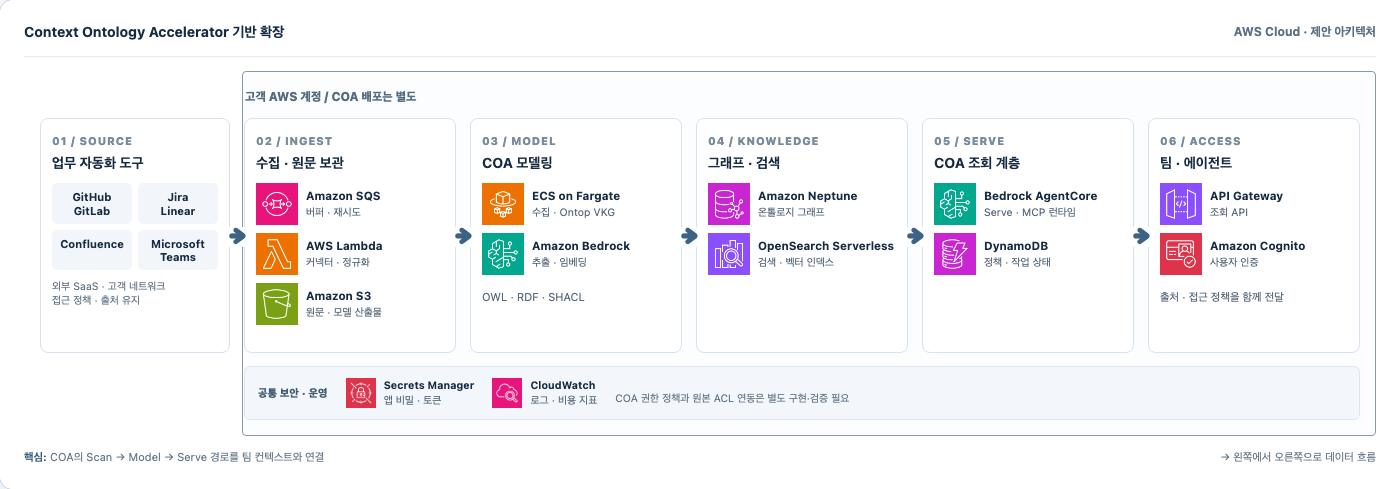
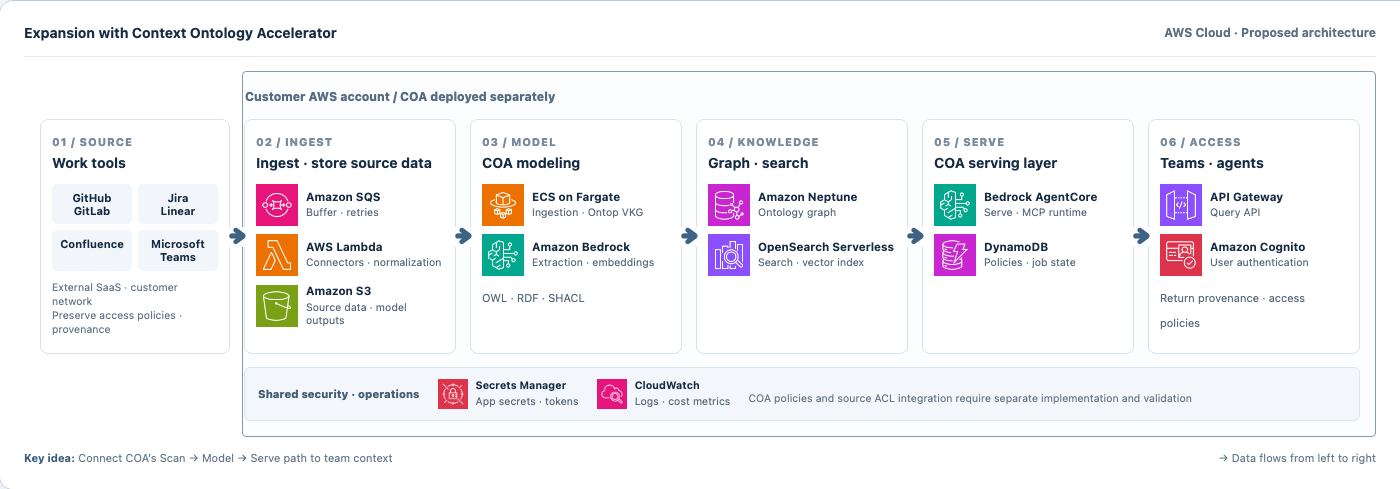
Translate the architecture page into English (#63)

diff --git a/docs/index.html b/docs/index.html
@@ -1,43 +1,43 @@
 <!doctype html>
-<html lang="ko">
+<html lang="en">
 <head>
   <meta charset="utf-8">
   <meta name="viewport" content="width=device-width, initial-scale=1">
-  <meta name="description" content="팀 업무 맥락 공유를 위한 AWS 아키텍처와 현재 구현 상태">
-  <title>Team Context · AWS 아키텍처</title>
+  <meta name="description" content="AWS architecture options and implementation status for sharing team context">
+  <title>Team Context · AWS Architecture</title>
   <style>
     :root{--ink:#172c43;--sub:#596b7d;--line:#d8e2ed;--blue:#1a5f9d;--navy:#162f49;--orange:#ef831a;--bg:#f5f8fb;--green:#158465}
-    *{box-sizing:border-box}body{margin:0;background:var(--bg);font:15px/1.65 -apple-system,BlinkMacSystemFont,'Apple SD Gothic Neo','Malgun Gothic',sans-serif;color:var(--ink)}a{color:#125b96}main{max-width:1500px;margin:auto;padding:0 28px 72px}.top{background:#142b42;color:white}.top-inner{max-width:1500px;margin:auto;padding:19px 28px;display:flex;align-items:center;justify-content:space-between;gap:18px}.brand{font-weight:800;letter-spacing:.02em}.top a{color:#dbeeff;text-decoration:none}.hero{padding:48px 0 30px;display:flex;align-items:end;justify-content:space-between;gap:25px;flex-wrap:wrap}.eyebrow{font-weight:800;font-size:12px;letter-spacing:.12em;color:var(--blue)}h1{font-size:clamp(30px,4vw,48px);line-height:1.15;letter-spacing:-.04em;margin:8px 0 12px}.lead{max-width:760px;margin:0;color:var(--sub);font-size:17px}.status{padding:12px 16px;border:1px solid #f0d199;border-radius:10px;background:#fff9e9;color:#795008;font-size:13px;max-width:380px}.nav{display:flex;gap:9px;flex-wrap:wrap;margin-bottom:26px}.nav a{padding:8px 14px;background:white;border:1px solid var(--line);border-radius:8px;text-decoration:none;font-weight:700;font-size:13px}.section{margin-top:34px}.heading{display:flex;align-items:flex-end;justify-content:space-between;gap:18px;flex-wrap:wrap;margin-bottom:13px}.heading h2{font-size:25px;margin:0;letter-spacing:-.03em}.heading p{margin:4px 0 0;color:var(--sub)}.pill{border-radius:99px;padding:5px 11px;background:#e4effc;color:#185a99;font-weight:800;font-size:12px}.pill.purple{background:#f0eafa;color:#6c3da5}.diagram-scroll{overflow-x:auto;border-radius:14px;border:1px solid #b9c9d9;background:#fff;box-shadow:0 8px 26px #243d5610}.diagram{width:1400px;min-width:1400px;padding:20px 24px 22px;background:white}.diagram-top{display:flex;justify-content:space-between;align-items:center;border-bottom:1px solid #e5ebf2;padding-bottom:12px}.diagram-top strong{font-size:14px}.aws-label{font-size:12px;color:#5b7084;font-weight:700}.cloud{margin-top:14px;position:relative;padding:16px;background:white}.cloud:before{content:"";position:absolute;left:218px;right:0;top:0;bottom:0;border:1px solid #8599ad;border-radius:4px;background:#fcfdff}.cloud>*{position:relative}.cloud-label{font-size:12px;font-weight:800;color:#556d83;margin:0 0 12px 205px}.flow{display:grid;grid-template-columns:190px repeat(5,1fr);gap:14px;align-items:stretch}.stage{position:relative;min-height:235px;border:1px solid #d7e2ec;border-radius:8px;background:white;padding:13px 11px}.stage:not(:last-child):after{content:'➜';position:absolute;z-index:2;right:-17px;top:46%;font-size:20px;color:#3d6384;background:#fcfdff;line-height:1}.stage-num{color:#788b9d;font-weight:800;font-size:11px;letter-spacing:.08em}.stage h3{font-size:14px;line-height:1.35;margin:3px 0 11px}.stage small{font-size:11px;color:var(--sub);line-height:1.4}.source-grid{display:grid;grid-template-columns:1fr 1fr;gap:6px}.source{padding:7px 5px;background:#f2f6fa;border-radius:5px;font-size:11px;font-weight:700;text-align:center;line-height:1.2}.service{display:flex;align-items:center;gap:8px;margin:8px 0}.service img{width:42px;height:42px;object-fit:contain;flex:none}.service strong{display:block;font-size:11.5px;line-height:1.28}.service span{display:block;color:var(--sub);font-size:10.5px;line-height:1.32;margin-top:2px}.note{color:#667789;font-size:10.5px;line-height:1.35;margin:9px 0 0}.rail{margin:13px 0 0 204px;padding:11px 13px;background:#f3f7fb;border:1px solid #dce6f0;border-radius:6px;display:flex;align-items:center;gap:18px;flex-wrap:wrap}.rail-title{font-size:11px;font-weight:800;color:#455d73}.rail .service{margin:0}.rail .service img{width:30px;height:30px}.rail .service strong{font-size:10.5px}.caption{display:flex;justify-content:space-between;gap:14px;margin-top:12px;color:#687b8e;font-size:11px}.caption b{color:#3a5d7b}.cards{display:grid;grid-template-columns:repeat(3,minmax(0,1fr));gap:14px}.card{background:white;border:1px solid var(--line);border-radius:12px;padding:20px}.card h3{font-size:16px;margin:0 0 8px}.card p,.card li{color:#4c6074;font-size:14px}.card p{margin:0}.card ul{padding-left:18px;margin:0}.table-wrap{overflow-x:auto;border:1px solid var(--line);border-radius:12px;background:#fff}table{border-collapse:collapse;width:100%;min-width:680px;font-size:14px}th,td{padding:13px 16px;border-bottom:1px solid #e6edf4;text-align:left;vertical-align:top}th{background:#f6f9fc;color:#426077}tr:last-child td{border:0}.ok{color:#087a59;font-weight:700;white-space:nowrap}.partial{color:#9a6700;font-weight:700;white-space:nowrap}.todo{color:#6f7e8a;font-weight:700;white-space:nowrap}.mobile-hint{display:none;color:#60778c;font-size:12px}.notice{padding:16px 18px;background:#f0f6fc;border-left:4px solid #4183bc;border-radius:5px;color:#38516a;font-size:14px}.sources{font-size:13px;color:var(--sub)}footer{margin-top:52px;color:#778b9b;font-size:12px;border-top:1px solid var(--line);padding-top:18px}@media(max-width:780px){main{padding:0 16px 50px}.top-inner{padding:16px}.top a{white-space:nowrap;font-size:13px}.brand span{display:none}.mobile-hint{display:block}.hero{padding-top:30px}.cards{grid-template-columns:1fr}.diagram-scroll:after{content:'← 좌우로 스크롤하여 흐름 확인 →';display:block;text-align:center;color:#60778c;padding:6px;font-size:11px}.heading h2{font-size:21px}}
+    *{box-sizing:border-box}body{margin:0;background:var(--bg);font:15px/1.65 -apple-system,BlinkMacSystemFont,'Apple SD Gothic Neo','Malgun Gothic',sans-serif;color:var(--ink)}a{color:#125b96}main{max-width:1500px;margin:auto;padding:0 28px 72px}.top{background:#142b42;color:white}.top-inner{max-width:1500px;margin:auto;padding:19px 28px;display:flex;align-items:center;justify-content:space-between;gap:18px}.brand{font-weight:800;letter-spacing:.02em}.top a{color:#dbeeff;text-decoration:none}.hero{padding:48px 0 30px;display:flex;align-items:end;justify-content:space-between;gap:25px;flex-wrap:wrap}.eyebrow{font-weight:800;font-size:12px;letter-spacing:.12em;color:var(--blue)}h1{font-size:clamp(30px,4vw,48px);line-height:1.15;letter-spacing:-.04em;margin:8px 0 12px}.lead{max-width:760px;margin:0;color:var(--sub);font-size:17px}.status{padding:12px 16px;border:1px solid #f0d199;border-radius:10px;background:#fff9e9;color:#795008;font-size:13px;max-width:380px}.nav{display:flex;gap:9px;flex-wrap:wrap;margin-bottom:26px}.nav a{padding:8px 14px;background:white;border:1px solid var(--line);border-radius:8px;text-decoration:none;font-weight:700;font-size:13px}.section{margin-top:34px}.heading{display:flex;align-items:flex-end;justify-content:space-between;gap:18px;flex-wrap:wrap;margin-bottom:13px}.heading h2{font-size:25px;margin:0;letter-spacing:-.03em}.heading p{margin:4px 0 0;color:var(--sub)}.pill{border-radius:99px;padding:5px 11px;background:#e4effc;color:#185a99;font-weight:800;font-size:12px}.pill.purple{background:#f0eafa;color:#6c3da5}.diagram-scroll{overflow-x:auto;border-radius:14px;border:1px solid #b9c9d9;background:#fff;box-shadow:0 8px 26px #243d5610}.diagram{width:1400px;min-width:1400px;padding:20px 24px 22px;background:white}.diagram-top{display:flex;justify-content:space-between;align-items:center;border-bottom:1px solid #e5ebf2;padding-bottom:12px}.diagram-top strong{font-size:14px}.aws-label{font-size:12px;color:#5b7084;font-weight:700}.cloud{margin-top:14px;position:relative;padding:16px;background:white}.cloud:before{content:"";position:absolute;left:218px;right:0;top:0;bottom:0;border:1px solid #8599ad;border-radius:4px;background:#fcfdff}.cloud>*{position:relative}.cloud-label{font-size:12px;font-weight:800;color:#556d83;margin:0 0 12px 205px}.flow{display:grid;grid-template-columns:190px repeat(5,1fr);gap:14px;align-items:stretch}.stage{position:relative;min-height:235px;border:1px solid #d7e2ec;border-radius:8px;background:white;padding:13px 11px}.stage:not(:last-child):after{content:'➜';position:absolute;z-index:2;right:-17px;top:46%;font-size:20px;color:#3d6384;background:#fcfdff;line-height:1}.stage-num{color:#788b9d;font-weight:800;font-size:11px;letter-spacing:.08em}.stage h3{font-size:14px;line-height:1.35;margin:3px 0 11px}.stage small{font-size:11px;color:var(--sub);line-height:1.4}.source-grid{display:grid;grid-template-columns:1fr 1fr;gap:6px}.source{padding:7px 5px;background:#f2f6fa;border-radius:5px;font-size:11px;font-weight:700;text-align:center;line-height:1.2}.service{display:flex;align-items:center;gap:8px;margin:8px 0}.service img{width:42px;height:42px;object-fit:contain;flex:none}.service strong{display:block;font-size:11.5px;line-height:1.28}.service span{display:block;color:var(--sub);font-size:10.5px;line-height:1.32;margin-top:2px}.note{color:#667789;font-size:10.5px;line-height:1.35;margin:9px 0 0}.rail{margin:13px 0 0 204px;padding:11px 13px;background:#f3f7fb;border:1px solid #dce6f0;border-radius:6px;display:flex;align-items:center;gap:18px;flex-wrap:wrap}.rail-title{font-size:11px;font-weight:800;color:#455d73}.rail .service{margin:0}.rail .service img{width:30px;height:30px}.rail .service strong{font-size:10.5px}.caption{display:flex;justify-content:space-between;gap:14px;margin-top:12px;color:#687b8e;font-size:11px}.caption b{color:#3a5d7b}.cards{display:grid;grid-template-columns:repeat(3,minmax(0,1fr));gap:14px}.card{background:white;border:1px solid var(--line);border-radius:12px;padding:20px}.card h3{font-size:16px;margin:0 0 8px}.card p,.card li{color:#4c6074;font-size:14px}.card p{margin:0}.card ul{padding-left:18px;margin:0}.table-wrap{overflow-x:auto;border:1px solid var(--line);border-radius:12px;background:#fff}table{border-collapse:collapse;width:100%;min-width:680px;font-size:14px}th,td{padding:13px 16px;border-bottom:1px solid #e6edf4;text-align:left;vertical-align:top}th{background:#f6f9fc;color:#426077}tr:last-child td{border:0}.ok{color:#087a59;font-weight:700;white-space:nowrap}.partial{color:#9a6700;font-weight:700;white-space:nowrap}.todo{color:#6f7e8a;font-weight:700;white-space:nowrap}.mobile-hint{display:none;color:#60778c;font-size:12px}.notice{padding:16px 18px;background:#f0f6fc;border-left:4px solid #4183bc;border-radius:5px;color:#38516a;font-size:14px}.sources{font-size:13px;color:var(--sub)}footer{margin-top:52px;color:#778b9b;font-size:12px;border-top:1px solid var(--line);padding-top:18px}@media(max-width:780px){main{padding:0 16px 50px}.top-inner{padding:16px}.top a{white-space:nowrap;font-size:13px}.brand span{display:none}.mobile-hint{display:block}.hero{padding-top:30px}.cards{grid-template-columns:1fr}.diagram-scroll:after{content:'← Scroll horizontally to follow the flow →';display:block;text-align:center;color:#60778c;padding:6px;font-size:11px}.heading h2{font-size:21px}}
   </style>
 </head>
 <body>
-<header class="top"><div class="top-inner"><div class="brand">◈ &nbsp; TEAM CONTEXT <span style="font-weight:400;color:#9fb4c7">/ 아키텍처 노트</span></div><a href="https://github.com/YoungJinJung/team-context">GitHub 저장소 ↗</a></div></header>
+<header class="top"><div class="top-inner"><div class="brand">◈ &nbsp; TEAM CONTEXT <span style="font-weight:400;color:#9fb4c7">/ Architecture notes</span></div><a href="https://github.com/YoungJinJung/team-context">GitHub repository ↗</a></div></header>
 <main>
-  <section class="hero"><div><div class="eyebrow">TEAM KNOWLEDGE · AWS ARCHITECTURE</div><h1>팀의 업무 맥락을<br>하나의 언어로 연결합니다.</h1><p class="lead">문서, 소스코드, 티켓과 대화의 관계를 연결하는 오픈소스 프로젝트. 작은 MVP로 시작하고 필요할 때 온톨로지와 검색을 확장합니다.</p></div><div class="status"><strong>현재 구현: 로컬 프로토타입</strong><br>아래 AWS 다이어그램은 목표 설계입니다. 실제 AWS 배포, 운영용 권한 격리와 COA 연동은 아직 구현되지 않았습니다.</div></section>
-  <nav class="nav" aria-label="문서 목차"><a href="#mvp">01 저비용 MVP</a><a href="#expanded">02 COA 확장형</a><a href="#status">구현 현황</a><a href="#cost">비용 최적화</a><a href="https://github.com/YoungJinJung/team-context/blob/main/docs/architecture.md">자세한 설계 문서 ↗</a></nav>
-  <section class="section" id="mvp"><div class="heading"><div><h2>01. 저비용 MVP</h2><p>승인 워크플로 없이 수집·저장·조회부터 시작합니다.</p></div><span class="pill">제안 · AWS 미배포</span></div>
-    <div class="diagram-scroll" tabindex="0" role="region" aria-label="저비용 MVP 아키텍처, 가로로 스크롤 가능"><div class="diagram" id="diagram-mvp"><div class="diagram-top"><strong>업무 도구에서 사용자 조회까지</strong><span class="aws-label">AWS Cloud · 제안 아키텍처</span></div><div class="cloud"><div class="cloud-label">고객 AWS 계정 / 운영 환경</div><div class="flow">
-      <div class="stage"><div class="stage-num">01 / SOURCE</div><h3>업무 자동화 도구</h3><div class="source-grid"><div class="source">GitHub<br>GitLab</div><div class="source">Jira<br>Linear</div><div class="source">Confluence</div><div class="source">Microsoft<br>Teams</div></div><p class="note">외부 SaaS · 고객 네트워크<br>연결 범위는 권한별로 제한</p></div>
-      <div class="stage"><div class="stage-num">02 / TRIGGER</div><h3>변경 감지 · 접수</h3><div class="service"><img src="assets/eventbridge.png" alt=""><div><strong>EventBridge</strong><span>주기 수집</span></div></div><div class="service"><img src="assets/sqs.png" alt=""><div><strong>Amazon SQS</strong><span>대기열 · 재시도</span></div></div><small>웹훅은 API Gateway로 수신</small></div>
-      <div class="stage"><div class="stage-num">03 / CONNECT</div><h3>커넥터 · 정규화</h3><div class="service"><img src="assets/lambda.png" alt=""><div><strong>AWS Lambda</strong><span>권한 기반 수집<br>출처 · 관계 변환</span></div></div><p class="note">GitHub App / OAuth<br>개인 장기 토큰 지양</p></div>
-      <div class="stage"><div class="stage-num">04 / STORE</div><h3>기록 · 상태</h3><div class="service"><img src="assets/s3.png" alt=""><div><strong>Amazon S3</strong><span>원문 · 스냅샷<br>모델 파일</span></div></div><div class="service"><img src="assets/dynamodb.png" alt=""><div><strong>DynamoDB</strong><span>관계 · 동기화 상태</span></div></div></div>
-      <div class="stage"><div class="stage-num">05 / CONTEXT</div><h3>권한 확인 · 조회</h3><div class="service"><img src="assets/lambda.png" alt=""><div><strong>AWS Lambda</strong><span>원본 권한 확인<br>근거 검색</span></div></div><div class="service"><img src="assets/bedrock.png" alt=""><div><strong>Amazon Bedrock</strong><span>선택 · 요약 생성</span></div></div></div>
-      <div class="stage"><div class="stage-num">06 / ACCESS</div><h3>팀 · 에이전트</h3><div class="service"><img src="assets/apigateway.png" alt=""><div><strong>API Gateway</strong><span>조회 API</span></div></div><div class="service"><img src="assets/cognito.png" alt=""><div><strong>Amazon Cognito</strong><span>사용자 인증</span></div></div><small>웹 화면 · 추후 MCP</small></div>
-    </div><div class="rail"><div class="rail-title">공통 보안 · 운영</div><div class="service"><img src="assets/secrets.png" alt=""><div><strong>Secrets Manager</strong><span>앱 비밀 · 토큰</span></div></div><div class="service"><img src="assets/cloudwatch.png" alt=""><div><strong>CloudWatch</strong><span>로그 · 알림</span></div></div><span class="note">IAM 최소 권한 · KMS 암호화 · 원본 ACL 반영 · 삭제 전파</span></div></div><div class="caption"><span><b>핵심:</b> S3 + DynamoDB 중심으로 시작하고 AI는 필요한 호출만 사용</span><span>→ 왼쪽에서 오른쪽으로 데이터 흐름</span></div></div></div>
+  <section class="hero"><div><div class="eyebrow">TEAM KNOWLEDGE · AWS ARCHITECTURE</div><h1>Connect your team’s context<br>in a shared language.</h1><p class="lead">An open-source project that connects documents, code, tickets, and conversations. Start with a small MVP and expand ontology and search as your needs grow.</p></div><div class="status"><strong>Current implementation: local prototype</strong><br>The AWS diagrams below are proposed designs. AWS deployment, production access isolation, and COA integration are not yet implemented.</div></section>
+  <nav class="nav" aria-label="Page navigation"><a href="#mvp">01 Low-cost MVP</a><a href="#expanded">02 COA-based expansion</a><a href="#status">Implementation status</a><a href="#cost">Cost optimization</a><a href="https://github.com/YoungJinJung/team-context/blob/main/docs/architecture.md">Detailed architecture notes (Korean) ↗</a></nav>
+  <section class="section" id="mvp"><div class="heading"><div><h2>01. Low-cost MVP</h2><p>Start with ingestion, storage, and retrieval without an approval workflow.</p></div><span class="pill">Proposed · AWS deployment pending</span></div>
+    <div class="diagram-scroll" tabindex="0" role="region" aria-label="Low-cost MVP architecture, scroll horizontally"><div class="diagram" id="diagram-mvp"><div class="diagram-top"><strong>From work tools to user queries</strong><span class="aws-label">AWS Cloud · Proposed architecture</span></div><div class="cloud"><div class="cloud-label">Customer AWS account / production environment</div><div class="flow">
+      <div class="stage"><div class="stage-num">01 / SOURCE</div><h3>Work tools</h3><div class="source-grid"><div class="source">GitHub<br>GitLab</div><div class="source">Jira<br>Linear</div><div class="source">Confluence</div><div class="source">Microsoft<br>Teams</div></div><p class="note">External SaaS · customer network<br>Scope limited by permissions</p></div>
+      <div class="stage"><div class="stage-num">02 / TRIGGER</div><h3>Detect and receive changes</h3><div class="service"><img src="assets/eventbridge.png" alt=""><div><strong>EventBridge</strong><span>Scheduled ingestion</span></div></div><div class="service"><img src="assets/sqs.png" alt=""><div><strong>Amazon SQS</strong><span>Queue · retries</span></div></div><small>Webhooks enter through API Gateway</small></div>
+      <div class="stage"><div class="stage-num">03 / CONNECT</div><h3>Connectors · normalization</h3><div class="service"><img src="assets/lambda.png" alt=""><div><strong>AWS Lambda</strong><span>Permission-based ingestion<br>Normalize sources · relationships</span></div></div><p class="note">GitHub App / OAuth<br>Avoid long-lived personal tokens</p></div>
+      <div class="stage"><div class="stage-num">04 / STORE</div><h3>Records · state</h3><div class="service"><img src="assets/s3.png" alt=""><div><strong>Amazon S3</strong><span>Source data · snapshots<br>Model files</span></div></div><div class="service"><img src="assets/dynamodb.png" alt=""><div><strong>DynamoDB</strong><span>Relationships · sync state</span></div></div></div>
+      <div class="stage"><div class="stage-num">05 / CONTEXT</div><h3>Authorize · retrieve</h3><div class="service"><img src="assets/lambda.png" alt=""><div><strong>AWS Lambda</strong><span>Check source permissions<br>Search evidence</span></div></div><div class="service"><img src="assets/bedrock.png" alt=""><div><strong>Amazon Bedrock</strong><span>Optional · generate summaries</span></div></div></div>
+      <div class="stage"><div class="stage-num">06 / ACCESS</div><h3>Teams · agents</h3><div class="service"><img src="assets/apigateway.png" alt=""><div><strong>API Gateway</strong><span>Query API</span></div></div><div class="service"><img src="assets/cognito.png" alt=""><div><strong>Amazon Cognito</strong><span>User authentication</span></div></div><small>Web UI · MCP later</small></div>
+    </div><div class="rail"><div class="rail-title">Shared security · operations</div><div class="service"><img src="assets/secrets.png" alt=""><div><strong>Secrets Manager</strong><span>App secrets · tokens</span></div></div><div class="service"><img src="assets/cloudwatch.png" alt=""><div><strong>CloudWatch</strong><span>Logs · alerts</span></div></div><span class="note">Least-privilege IAM · KMS encryption · source ACLs · deletion propagation</span></div></div><div class="caption"><span><b>Key idea:</b> Start with S3 and DynamoDB; invoke AI only when needed</span><span>→ Data flows from left to right</span></div></div></div>
   </section>
-  <section class="section" id="expanded"><div class="heading"><div><h2>02. COA 확장형</h2><p>온톨로지 추론·그래프 탐색·의미 검색이 필요할 때 확장합니다.</p></div><span class="pill purple">제안 · COA 미연동</span></div>
-    <div class="diagram-scroll" tabindex="0" role="region" aria-label="COA 확장형 아키텍처, 가로로 스크롤 가능"><div class="diagram" id="diagram-coa"><div class="diagram-top"><strong>Context Ontology Accelerator 기반 확장</strong><span class="aws-label">AWS Cloud · 제안 아키텍처</span></div><div class="cloud"><div class="cloud-label">고객 AWS 계정 / COA 배포는 별도</div><div class="flow">
-      <div class="stage"><div class="stage-num">01 / SOURCE</div><h3>업무 자동화 도구</h3><div class="source-grid"><div class="source">GitHub<br>GitLab</div><div class="source">Jira<br>Linear</div><div class="source">Confluence</div><div class="source">Microsoft<br>Teams</div></div><p class="note">외부 SaaS · 고객 네트워크<br>접근 정책 · 출처 유지</p></div>
-      <div class="stage"><div class="stage-num">02 / INGEST</div><h3>수집 · 원문 보관</h3><div class="service"><img src="assets/sqs.png" alt=""><div><strong>Amazon SQS</strong><span>버퍼 · 재시도</span></div></div><div class="service"><img src="assets/lambda.png" alt=""><div><strong>AWS Lambda</strong><span>커넥터 · 정규화</span></div></div><div class="service"><img src="assets/s3.png" alt=""><div><strong>Amazon S3</strong><span>원문 · 모델 산출물</span></div></div></div>
-      <div class="stage"><div class="stage-num">03 / MODEL</div><h3>COA 모델링</h3><div class="service"><img src="assets/fargate.png" alt=""><div><strong>ECS on Fargate</strong><span>수집 · Ontop VKG</span></div></div><div class="service"><img src="assets/bedrock.png" alt=""><div><strong>Amazon Bedrock</strong><span>추출 · 임베딩</span></div></div><small>OWL · RDF · SHACL</small></div>
-      <div class="stage"><div class="stage-num">04 / KNOWLEDGE</div><h3>그래프 · 검색</h3><div class="service"><img src="assets/neptune.png" alt=""><div><strong>Amazon Neptune</strong><span>온톨로지 그래프</span></div></div><div class="service"><img src="assets/opensearch.png" alt=""><div><strong>OpenSearch Serverless</strong><span>검색 · 벡터 인덱스</span></div></div></div>
-      <div class="stage"><div class="stage-num">05 / SERVE</div><h3>COA 조회 계층</h3><div class="service"><img src="assets/bedrock.png" alt=""><div><strong>Bedrock AgentCore</strong><span>Serve · MCP 런타임</span></div></div><div class="service"><img src="assets/dynamodb.png" alt=""><div><strong>DynamoDB</strong><span>정책 · 작업 상태</span></div></div></div>
-      <div class="stage"><div class="stage-num">06 / ACCESS</div><h3>팀 · 에이전트</h3><div class="service"><img src="assets/apigateway.png" alt=""><div><strong>API Gateway</strong><span>조회 API</span></div></div><div class="service"><img src="assets/cognito.png" alt=""><div><strong>Amazon Cognito</strong><span>사용자 인증</span></div></div><small>출처 · 접근 정책을 함께 전달</small></div>
-    </div><div class="rail"><div class="rail-title">공통 보안 · 운영</div><div class="service"><img src="assets/secrets.png" alt=""><div><strong>Secrets Manager</strong><span>앱 비밀 · 토큰</span></div></div><div class="service"><img src="assets/cloudwatch.png" alt=""><div><strong>CloudWatch</strong><span>로그 · 비용 지표</span></div></div><span class="note">COA 권한 정책과 원본 ACL 연동은 별도 구현·검증 필요</span></div></div><div class="caption"><span><b>핵심:</b> COA의 Scan → Model → Serve 경로를 팀 컨텍스트와 연결</span><span>→ 왼쪽에서 오른쪽으로 데이터 흐름</span></div></div></div>
+  <section class="section" id="expanded"><div class="heading"><div><h2>02. COA-based expansion</h2><p>Expand when you need ontology reasoning, graph traversal, or semantic search.</p></div><span class="pill purple">Proposed · COA integration pending</span></div>
+    <div class="diagram-scroll" tabindex="0" role="region" aria-label="COA-based architecture, scroll horizontally"><div class="diagram" id="diagram-coa"><div class="diagram-top"><strong>Expansion with Context Ontology Accelerator</strong><span class="aws-label">AWS Cloud · Proposed architecture</span></div><div class="cloud"><div class="cloud-label">Customer AWS account / COA deployed separately</div><div class="flow">
+      <div class="stage"><div class="stage-num">01 / SOURCE</div><h3>Work tools</h3><div class="source-grid"><div class="source">GitHub<br>GitLab</div><div class="source">Jira<br>Linear</div><div class="source">Confluence</div><div class="source">Microsoft<br>Teams</div></div><p class="note">External SaaS · customer network<br>Preserve access policies · provenance</p></div>
+      <div class="stage"><div class="stage-num">02 / INGEST</div><h3>Ingest · store source data</h3><div class="service"><img src="assets/sqs.png" alt=""><div><strong>Amazon SQS</strong><span>Buffer · retries</span></div></div><div class="service"><img src="assets/lambda.png" alt=""><div><strong>AWS Lambda</strong><span>Connectors · normalization</span></div></div><div class="service"><img src="assets/s3.png" alt=""><div><strong>Amazon S3</strong><span>Source data · model outputs</span></div></div></div>
+      <div class="stage"><div class="stage-num">03 / MODEL</div><h3>COA modeling</h3><div class="service"><img src="assets/fargate.png" alt=""><div><strong>ECS on Fargate</strong><span>Ingestion · Ontop VKG</span></div></div><div class="service"><img src="assets/bedrock.png" alt=""><div><strong>Amazon Bedrock</strong><span>Extraction · embeddings</span></div></div><small>OWL · RDF · SHACL</small></div>
+      <div class="stage"><div class="stage-num">04 / KNOWLEDGE</div><h3>Graph · search</h3><div class="service"><img src="assets/neptune.png" alt=""><div><strong>Amazon Neptune</strong><span>Ontology graph</span></div></div><div class="service"><img src="assets/opensearch.png" alt=""><div><strong>OpenSearch Serverless</strong><span>Search · vector index</span></div></div></div>
+      <div class="stage"><div class="stage-num">05 / SERVE</div><h3>COA serving layer</h3><div class="service"><img src="assets/bedrock.png" alt=""><div><strong>Bedrock AgentCore</strong><span>Serve · MCP runtime</span></div></div><div class="service"><img src="assets/dynamodb.png" alt=""><div><strong>DynamoDB</strong><span>Policies · job state</span></div></div></div>
+      <div class="stage"><div class="stage-num">06 / ACCESS</div><h3>Teams · agents</h3><div class="service"><img src="assets/apigateway.png" alt=""><div><strong>API Gateway</strong><span>Query API</span></div></div><div class="service"><img src="assets/cognito.png" alt=""><div><strong>Amazon Cognito</strong><span>User authentication</span></div></div><small>Return provenance · access policies</small></div>
+    </div><div class="rail"><div class="rail-title">Shared security · operations</div><div class="service"><img src="assets/secrets.png" alt=""><div><strong>Secrets Manager</strong><span>App secrets · tokens</span></div></div><div class="service"><img src="assets/cloudwatch.png" alt=""><div><strong>CloudWatch</strong><span>Logs · cost metrics</span></div></div><span class="note">COA policies and source ACL integration require separate implementation and validation</span></div></div><div class="caption"><span><b>Key idea:</b> Connect COA’s Scan → Model → Serve path to team context</span><span>→ Data flows from left to right</span></div></div></div>
   </section>
-  <section class="section" id="status"><div class="heading"><div><h2>현재 구현 상태</h2><p>다이어그램은 목표이며, 저장소의 현재 동작과 구분합니다.</p></div></div><p class="mobile-hint">← 표를 좌우로 스크롤하여 현재 범위를 확인하세요 →</p><div class="table-wrap"><table><thead><tr><th>기능</th><th>상태</th><th>현재 범위</th></tr></thead><tbody><tr><td>GitHub · GitLab 공개 PR/MR</td><td class="ok">로컬 구현</td><td>수집, S3 저장, 원본 재검증 검색 · LocalStack</td></tr><tr><td>GitLab.com 비공개 MR</td><td class="partial">로컬 구현</td><td>OAuth PKCE, 프로젝트별 수집, 요청자 원본 재확인 검색</td></tr><tr><td>GitHub 비공개 PR · Teams · Linear</td><td class="partial">미리보기</td><td>OAuth / GitHub App 연결 및 사용자별 화면 미리보기</td></tr><tr><td>Jira · Confluence · 자체 호스팅 · 소스 파일</td><td class="todo">예정</td><td>연결, 원본 권한 동기화와 수집 미구현</td></tr><tr><td>AWS 배포 · COA · 운영용 권한 모델</td><td class="todo">예정</td><td>IaC, 테넌트 격리, 원본 ACL, 감사와 운영 검증 필요</td></tr></tbody></table></div></section>
-  <section class="section" id="cost"><div class="heading"><div><h2>비용을 작게 시작하는 방법</h2><p>월 총액은 리전과 사용량을 정한 뒤 AWS 요금 계산기로 산정합니다.</p></div></div><div class="cards"><article class="card"><h3>01 · 고정 인프라는 나중에</h3><p>MVP는 S3·DynamoDB와 요청 기반 Lambda부터 시작합니다. 그래프 DB와 전용 검색을 추가하기 전에 검색량과 관계 탐색 필요성을 측정합니다.</p></article><article class="card"><h3>02 · Serverless의 바닥 비용 확인</h3><p>Neptune Serverless는 인스턴스별 최소 1 NCU입니다. OpenSearch Serverless NextGen은 0 OCU를 설정할 수 있습니다. COA의 현재 기본 최소값은 2 OCU이므로 실제 배포 설정과 저장 비용·재기동 지연을 확인합니다.</p></article><article class="card"><h3>03 · 호출량과 운영비 관리</h3><p>변경분만 수집하고 임베딩·모델 호출을 배치합니다. 예산 알림, 로그 보존 기간, NAT·엔드포인트, KMS·비밀 저장 비용도 함께 계산합니다.</p></article></div><p class="notice">가격은 배포 리전, 트래픽, 저장량, 고가용성, 데이터 전송과 모델 사용량에 따라 달라집니다. 이 문서의 다이어그램만으로 월 요금을 확정할 수 없습니다.</p></section>
-  <section class="section"><div class="heading"><div><h2>검증과 다음 단계</h2></div></div><div class="cards"><article class="card"><h3>지금 가능한 것</h3><p>로컬 LocalStack에서 커넥터와 공개 검색, GitLab 비공개 MR의 요청자별 재확인 검색을 개발합니다. 운영 환경용으로 공개하지 않습니다.</p></article><article class="card"><h3>운영 전 필수</h3><p>테넌트·사용자 인증, 원본 권한과 삭제 전파, 비밀 보호, 감사 로그와 실제 서비스 통합 테스트를 구현해야 합니다.</p></article><article class="card"><h3>개발 현황</h3><p>테스트와 백엔드 변이 검사 결과는 GitHub Actions를 확인하세요. UI 변이 검사와 추가 커넥터는 이슈로 관리합니다.</p></article></div></section>
-  <section class="section sources"><strong>참고 자료</strong> · <a href="https://aws.github.io/context-ontology-accelerator/">AWS Context Ontology Accelerator</a> · <a href="https://github.com/aws/context-ontology-accelerator/blob/main/external-docs/content/deploying.md">COA 배포 구성</a> · <a href="https://docs.aws.amazon.com/neptune/latest/userguide/neptune-serverless-capacity-scaling.html">Neptune Serverless 용량</a> · <a href="https://docs.aws.amazon.com/opensearch-service/latest/developerguide/serverless-scale-to-zero.html">OpenSearch Serverless 규모 축소</a> · <a href="https://calculator.aws/">AWS 요금 계산기</a> · <a href="https://aws.amazon.com/architecture/icons/">AWS 아키텍처 아이콘</a></section>
-  <footer>Team Context · 아키텍처 제안과 로컬 구현 상태 · 2026-11-25</footer>
+  <section class="section" id="status"><div class="heading"><div><h2>Current implementation status</h2><p>The diagrams show target designs. The table describes what the repository does today.</p></div></div><p class="mobile-hint">← Scroll horizontally to see the full table →</p><div class="table-wrap"><table><thead><tr><th>Capability</th><th>Status</th><th>Current scope</th></tr></thead><tbody><tr><td>GitHub · GitLab public PRs/MRs</td><td class="ok">Local implementation</td><td>Ingestion, S3 storage, and source-revalidated search · LocalStack</td></tr><tr><td>GitLab.com private MRs</td><td class="partial">Local implementation</td><td>OAuth PKCE, project collection, and requester-checked search</td></tr><tr><td>GitHub private PRs · Teams · Linear</td><td class="partial">Preview</td><td>OAuth / GitHub App connection and per-user previews</td></tr><tr><td>Jira · Confluence · self-hosting · source files</td><td class="todo">Planned</td><td>Connection, source permission sync, and ingestion are not implemented</td></tr><tr><td>AWS deployment · COA · production authorization</td><td class="todo">Planned</td><td>IaC, tenant isolation, source ACLs, auditing, and production validation are needed</td></tr></tbody></table></div></section>
+  <section class="section" id="cost"><div class="heading"><div><h2>How to keep initial costs low</h2><p>Estimate monthly costs with the AWS Pricing Calculator after choosing a Region and usage assumptions.</p></div></div><div class="cards"><article class="card"><h3>01 · Defer fixed infrastructure</h3><p>Start the MVP with S3, DynamoDB, and request-driven Lambda. Measure search volume and graph traversal needs before adding a graph database or dedicated search.</p></article><article class="card"><h3>02 · Check serverless minimum costs</h3><p>Neptune Serverless has a minimum of 1 NCU per instance. OpenSearch Serverless NextGen can be configured for 0 OCUs. COA currently defaults to a minimum of 2 OCUs, so check deployment settings, storage costs, and restart latency.</p></article><article class="card"><h3>03 · Manage calls and operational costs</h3><p>Ingest only changes and batch embedding and model calls. Account for budget alerts, log retention, NAT gateways, endpoints, KMS, and secret storage.</p></article></div><p class="notice">Costs depend on the deployment Region, traffic, storage, availability, data transfer, and model usage. These diagrams alone cannot determine a monthly bill.</p></section>
+  <section class="section"><div class="heading"><div><h2>Validation and next steps</h2></div></div><div class="cards"><article class="card"><h3>Available today</h3><p>Develop connectors, public search, and requester-checked private GitLab MR search locally with LocalStack. Do not expose the prototype for production use.</p></article><article class="card"><h3>Required before production</h3><p>Implement tenant and user authentication, source permission and deletion propagation, secret protection, audit logs, and integration tests against real services.</p></article><article class="card"><h3>Development progress</h3><p>See GitHub Actions for test and backend mutation results. UI mutation testing and additional connectors are tracked in issues.</p></article></div></section>
+  <section class="section sources"><strong>References</strong> · <a href="https://aws.github.io/context-ontology-accelerator/">AWS Context Ontology Accelerator</a> · <a href="https://github.com/aws/context-ontology-accelerator/blob/main/external-docs/content/deploying.md">COA deployment configuration</a> · <a href="https://docs.aws.amazon.com/neptune/latest/userguide/neptune-serverless-capacity-scaling.html">Neptune Serverless capacity</a> · <a href="https://docs.aws.amazon.com/opensearch-service/latest/developerguide/serverless-scale-to-zero.html">OpenSearch Serverless scale to zero</a> · <a href="https://calculator.aws/">AWS Pricing Calculator</a> · <a href="https://aws.amazon.com/architecture/icons/">AWS Architecture Icons</a></section>
+  <footer>Team Context · Proposed architecture and local implementation status · 2026-11-25</footer>
 </main></body></html>
